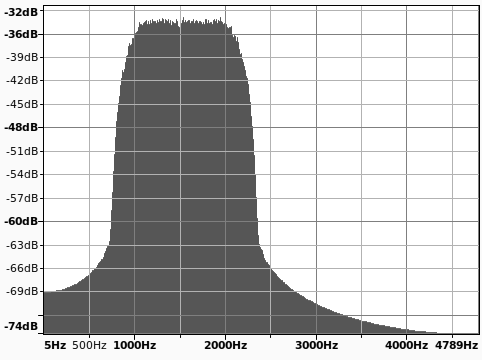
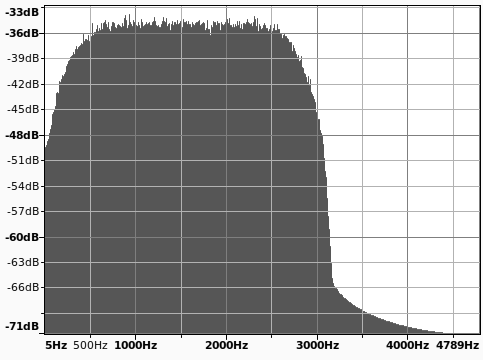
Adjust filter gain

diff --git a/rrc_fir.h b/rrc_fir.h
@@ -17,7 +17,7 @@ extern "C" {
 #define TAU           (2.0 * M_PI)
 
 #define NTAPS         127	// lower bauds need more taps, 127 for 300 baud is good
-#define GAIN          2.2
+#define GAIN          1.8
 
 void rrc_fir(complex float [], complex float [], int);
 void rrc_make(float, float, float);
